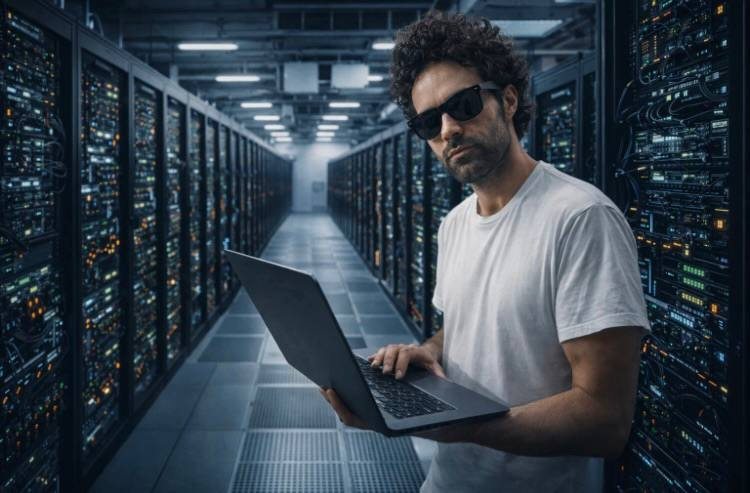
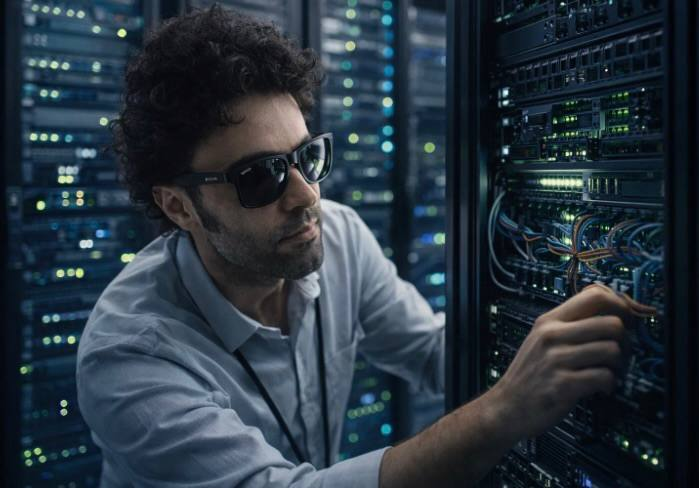
Update profile image to AI-generated hero image

diff --git a/index.html b/index.html
@@ -25,6 +25,9 @@
 
     <section class="hero">
         <div class="hero-content">
+            <div class="profile-image">
+                <img src="images/domenico-hero.jpg" alt="Domenico Gualtieri - IT Systems Administrator" />
+            </div>
             <h1>Domenico Gualtieri</h1>
             <p class="tagline">IT Systems Administrator • Cloud Specialist • Technical Operations Lead</p>
             <p class="location">📍 Johannesburg, Edenvale</p>
